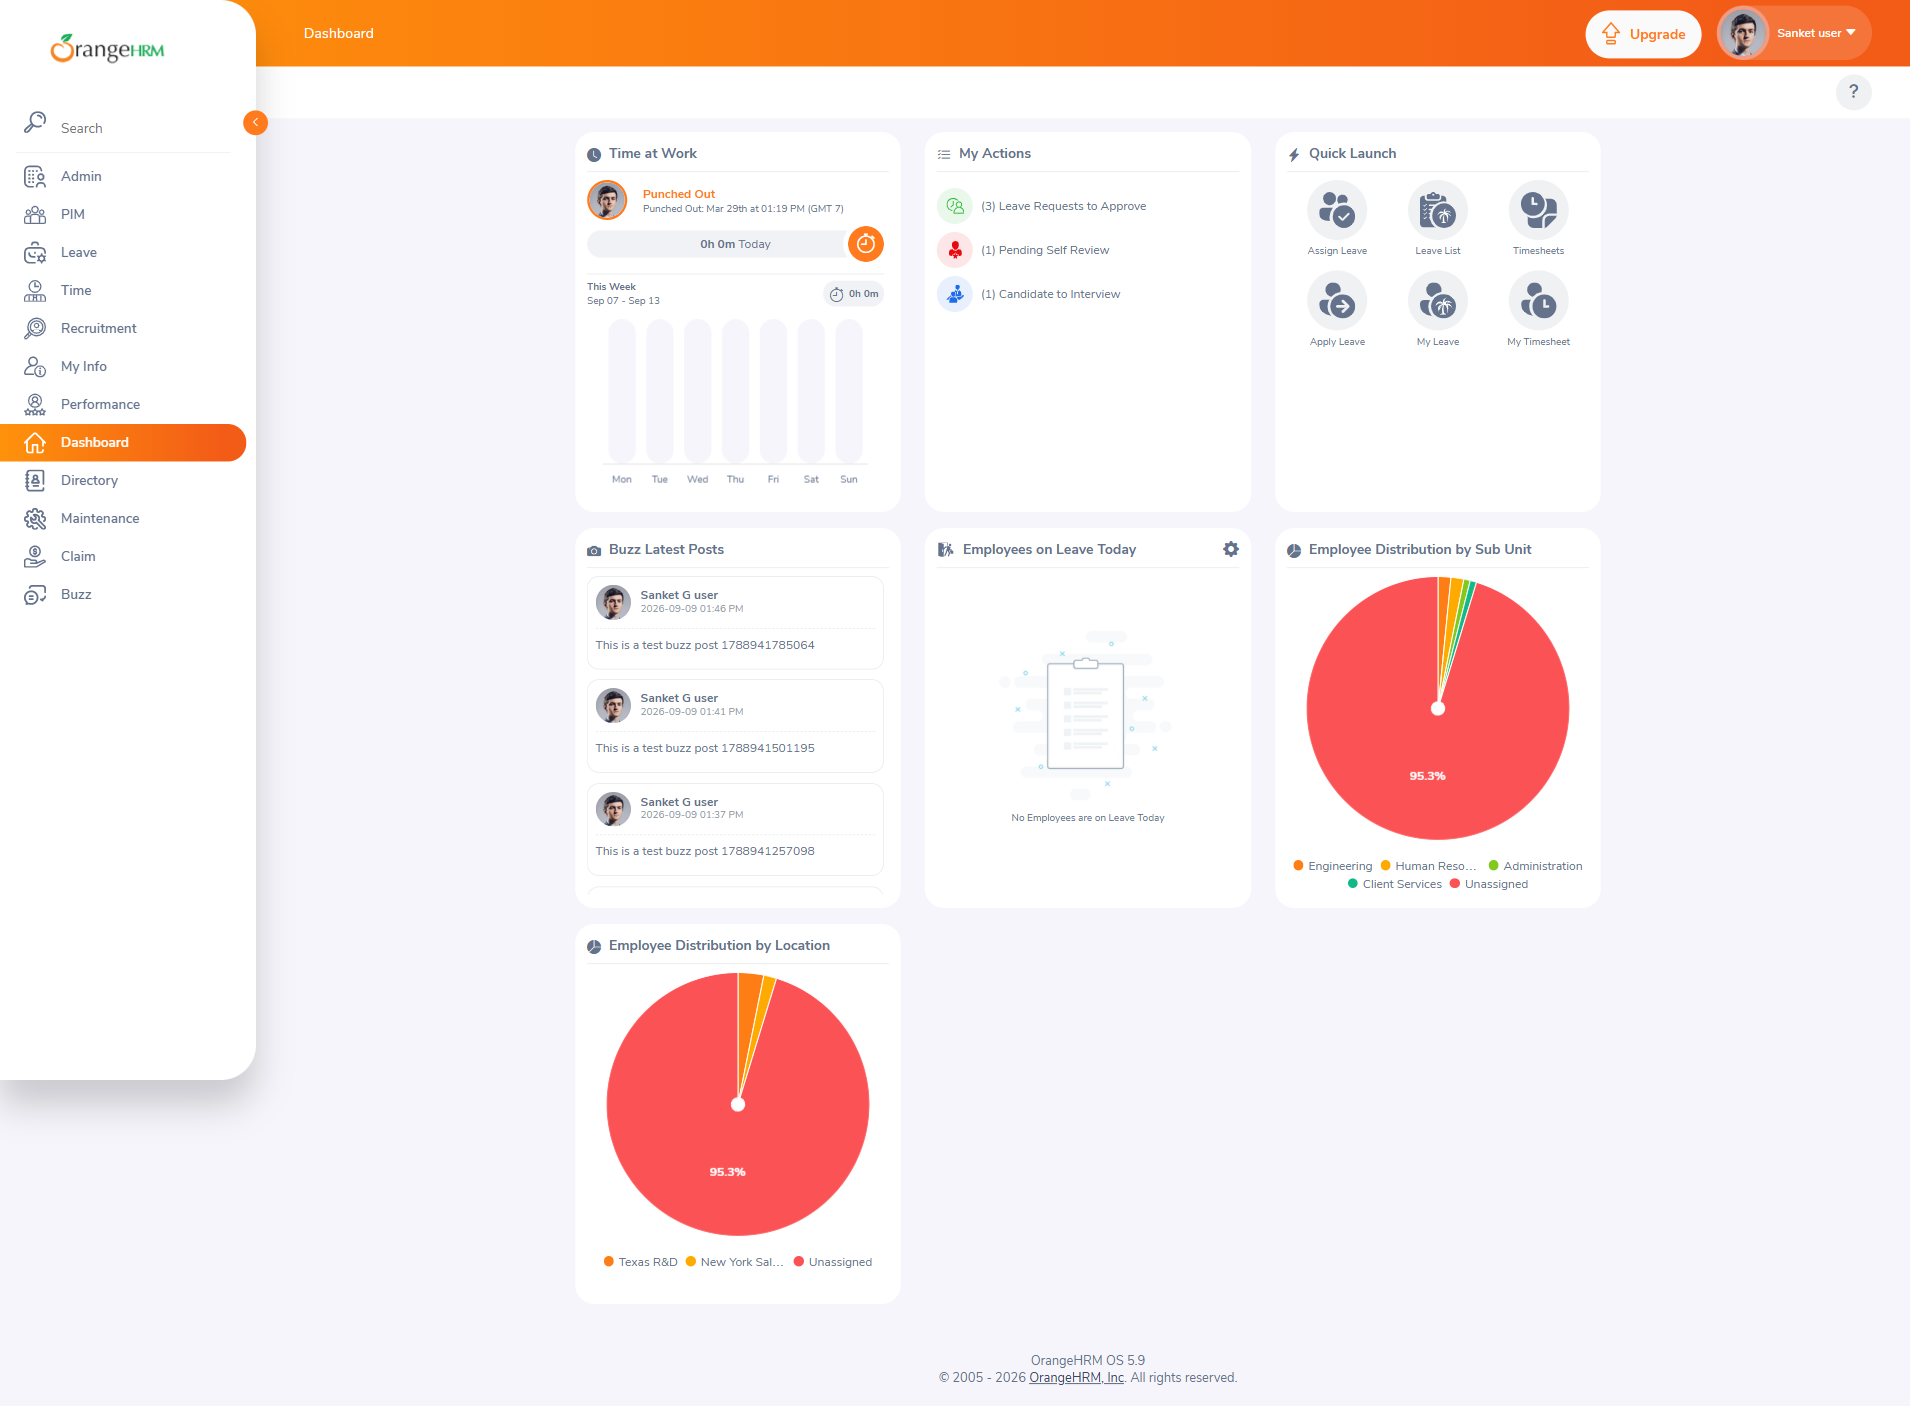
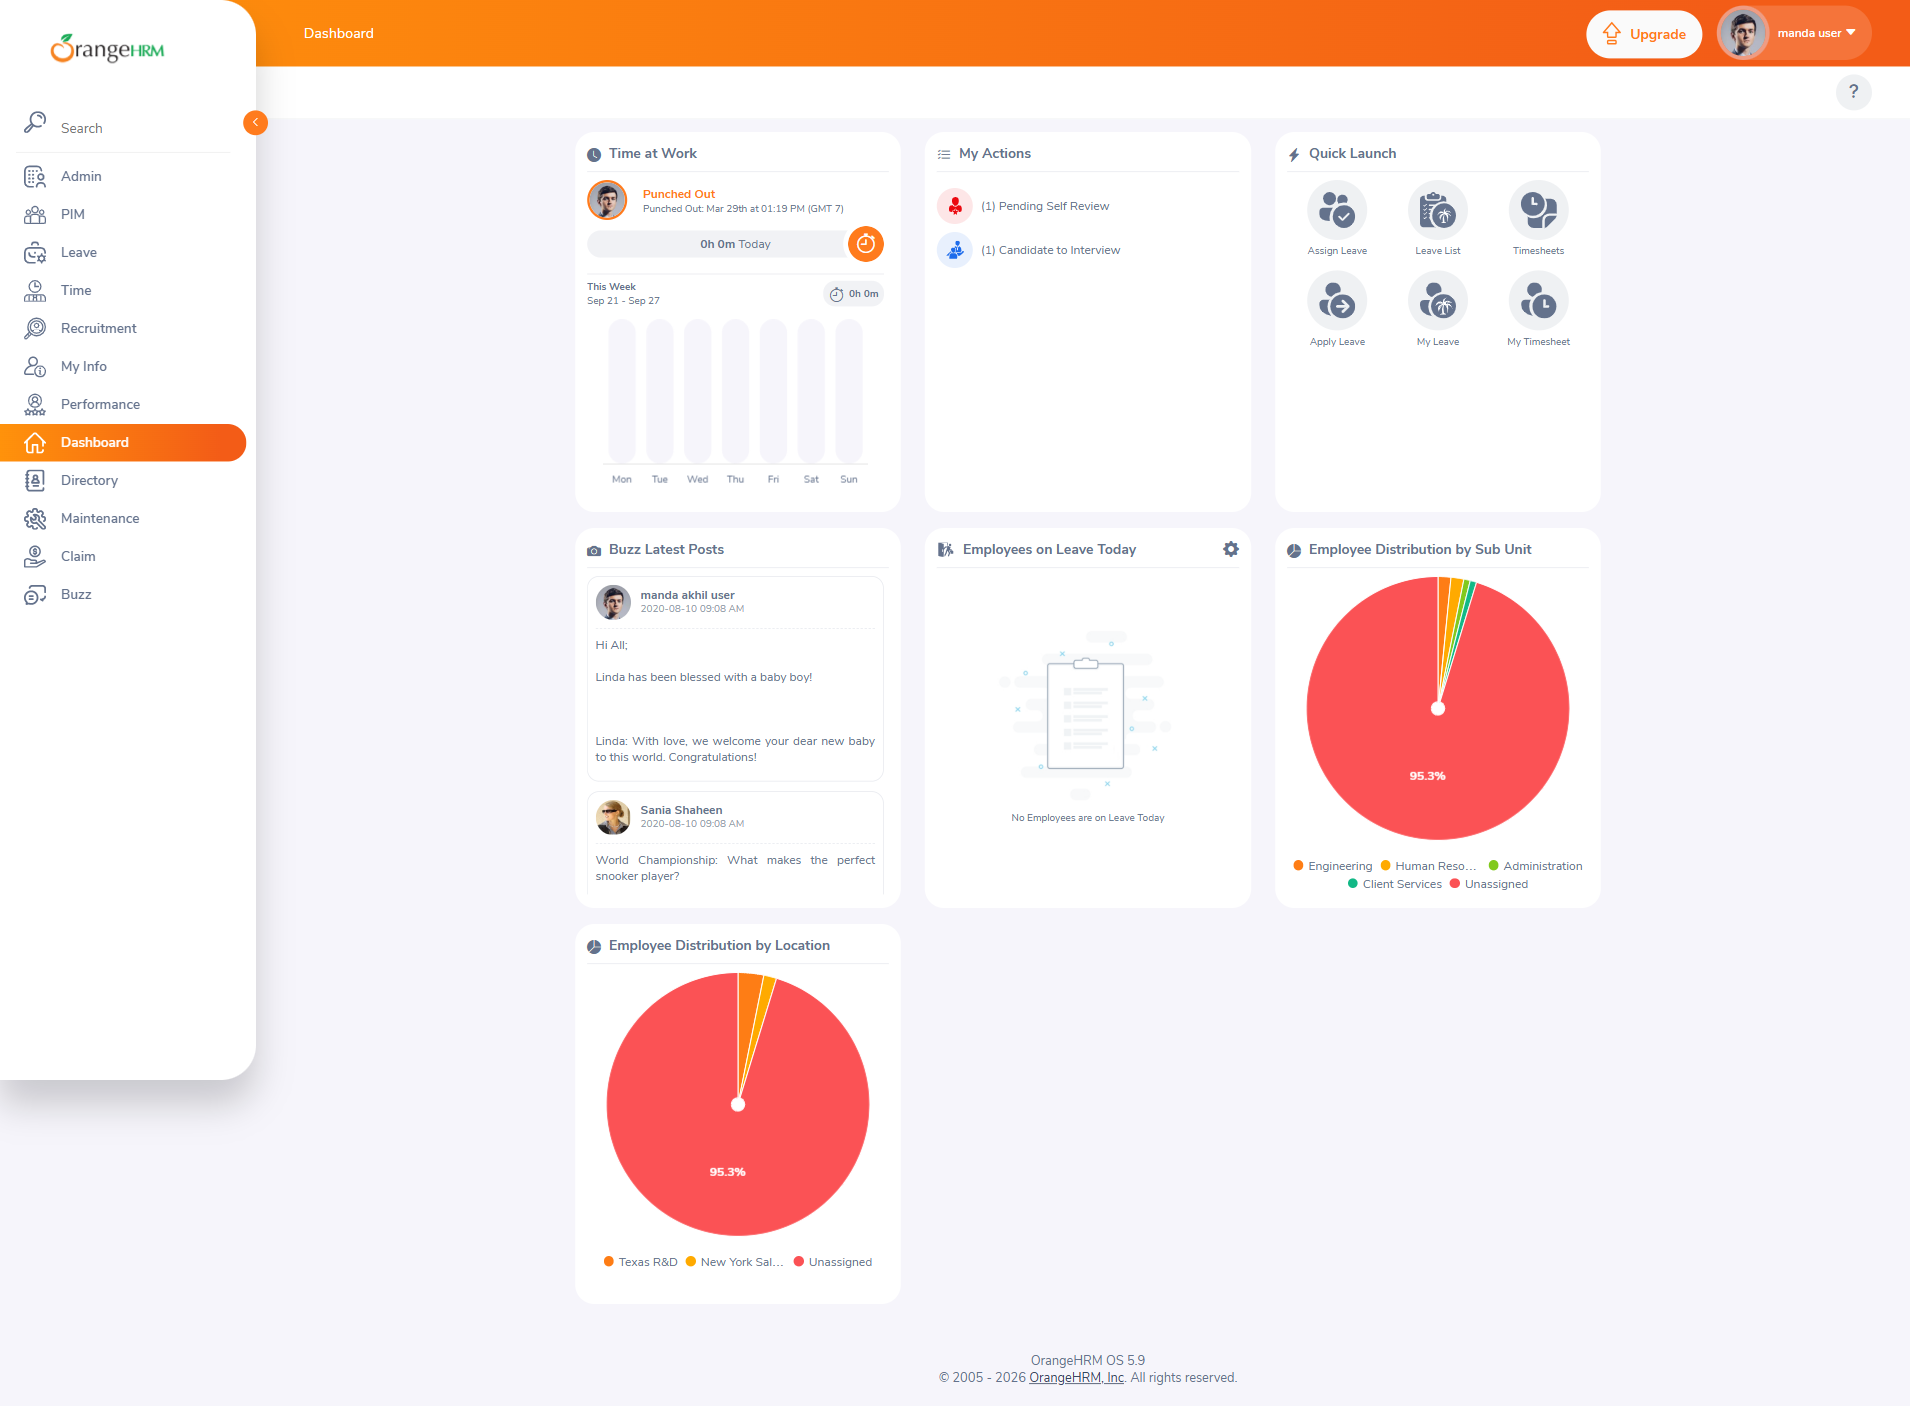
Added New test for Demo

Changed region(s): [[0.3089, 0.4282, 0.4325, 0.6422], [0.4942, 0.1223, 0.5869, 0.2141], [0.3398, 0.3976, 0.3707, 0.4282]]

diff --git a/tests/IntegrationTesting/dropDownTest.spec.js b/tests/IntegrationTesting/dropDownTest.spec.js
@@ -1,0 +1,40 @@
+import {test,expect} from '@playwright/test';
+test("Dropdown Test",async({page})=>{
+   await page.goto("https://freelance-learn-automation.vercel.app/signup");
+  await expect(page).toHaveURL('https://freelance-learn-automation.vercel.app/signup');
+  const name=await page.getByPlaceholder('Name');
+  await name.fill('Sahil Saha');
+  const Email=await page.getByPlaceholder('Email');
+  await Email.fill('sahil.saha@example.com');
+  const password=await page.getByPlaceholder('Password');
+  await password.fill('sahil@123');
+  const interestCheckbox=await page.locator("xpath=//label[text()='MCP']");
+  await interestCheckbox.check();
+  // const genderRadioButton=await page.locator('#gender1');
+  // await genderRadioButton.check();
+  
+  await page.locator("#state").selectOption({value:'West Bengal'});
+  await page.waitForTimeout(2000);
+  await page.waitForLoadState('networkidle');
+  await page.screenshot({path:'screenshot_as_proof/dropdownHandling.png',fullPage:true});
+  await page.locator("#hobbies").selectOption({value:'Swimming'});
+  await page.waitForLoadState('networkidle');
+  const dropDownValues=await page.locator('#state').textContent();
+  console.log(dropDownValues);
+  await page.waitForTimeout(2000);
+  await expect(dropDownValues.includes("West Bengal")).toBeTruthy();
+
+  await page.screenshot({path:'screenshot_as_proof/dropdownHandling.png',fullPage:true});
+  const signUpButton=await page.getByRole('button',{name:'Sign Up'});
+  await signUpButton.click();
+  await expect(page).toHaveURL('https://freelance-learn-automation.vercel.app/login');
+  
+
+  const state=await page.$('#state');
+  const allOptions=await state.$$('option');
+  for(const option of allOptions){
+    const optionValue=await option.getAttribute('value');
+    const optionText=await option.textContent();
+    console.log(`Option Value: ${optionValue}, Option Text: ${optionText}`);
+  }
+});

diff --git a/tests/IntegrationTesting/mouseHover.spec.js b/tests/IntegrationTesting/mouseHover.spec.js
@@ -1,0 +1,20 @@
+import {test,expect} from '@playwright/test';
+test('Mouse Hover test',async({page})=>{
+  await page.goto('https://www.amazon.in/');
+  await expect(page).toHaveURL('https://www.amazon.in/');
+  const options=await page.locator("xpath=//a[@id='nav-link-accountList']");
+  const optionCount=await options.count();
+  for(let i=0;i<=optionCount;i++)
+  {
+    const optionText=await options.nth(i).textContent();
+    console.log('Option Number '+i+'is :${i}'+optionText);
+
+  }
+
+  await page.locator("xpath=//a[@id='nav-link-accountList']").fill("Sahil Saha");
+  await page.locator("xpath=//a[@id='nav-link-accountList']").hover();
+  await page.waitForTimeout(2000);
+  
+
+   
+})
